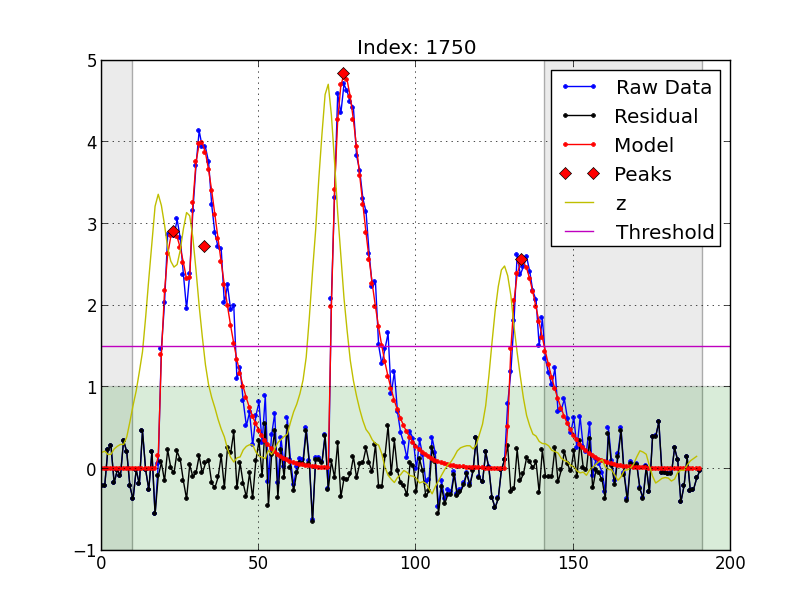
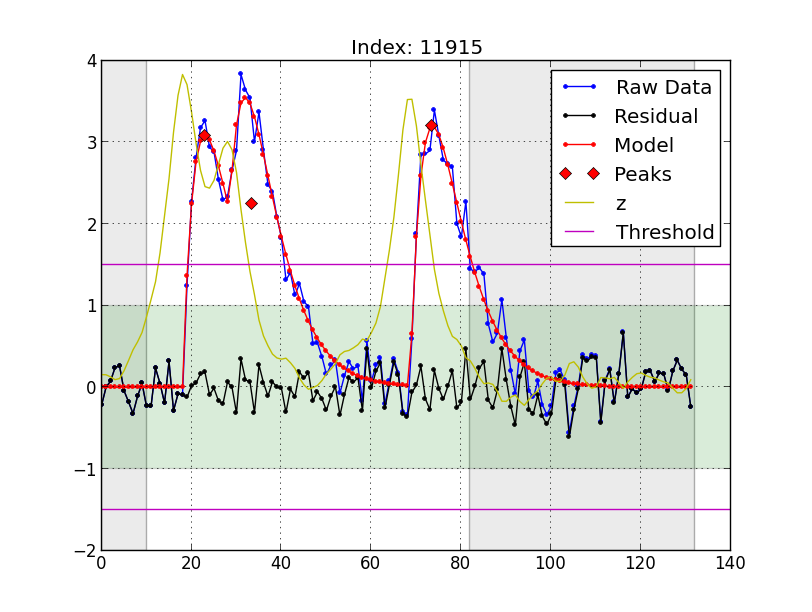
Code clean-up.

diff --git a/scikits/pulsefit/fit_mpocmle.py b/scikits/pulsefit/fit_mpocmle.py
@@ -13,7 +13,7 @@ def fit_mpoc_mle(
         r, p, 
         th, th_min, filt_len, pad_pre, pad_post, max_len, 
         min_denom, exclude_pre, exclude_post, 
-        p_err_len, sigma2, chi2red_max, abs_diff_max,
+        p_err_len, sigma2, chi2red_max, 
         correct=True, pulse_add_len=None, pulse_min_dist=0,
         return_blocks=False, debug=False, cb=None):
     """fit_mpoc_mle
@@ -75,14 +75,12 @@ def fit_mpoc_mle(
     
     p_err_len : int
         The number of samples to check for each pulse to determine
-        the reduced chi^2 and abs_diff values. 
+        the reduced chi^2.
     sigma2 : float 
         The variance in the noise. This is used to compute the 
         reduced chi^2. 
     chi2red_max : float
         The maximum acceptable reduced chi^2 value for a pulse fit. 
-    abs_diff_max : float
-        The maximum acceptable absolute difference for a pulse fit.
     
     correct : bool
         If True, attempt to correct errors. 
@@ -105,12 +103,11 @@ def fit_mpoc_mle(
     Returns
     -------
     If return_blocks is False (default), return 
-        (inds, amps, flags, chi2red, res_max) 
+        (inds, amps, flags, chi2red) 
         inds    : Indices of located pulses. 
         amps    : Amplitudes of located pulses. 
         flags   : A flag for each pulse. 0 means successfully fit. 
         chi2red : The reduced chi^2 value for each pulse. 
-        res_max : The maximum absolute residual value for each pulse. 
 
     If return_blocks is True, return a list of fit blocks.
 
@@ -133,8 +130,7 @@ def fit_mpoc_mle(
     opt_fit = OptFitLeastSq(amp_fit, debug=debug)
         
     # The flagger. 
-    flagger = Flagger(
-        p_err_len, sigma2, chi2red_max, abs_diff_max, debug=debug)
+    flagger = Flagger(p_err_len, sigma2, chi2red_max, debug=debug)
         
     # The error-correction routine. 
     corrector = None
@@ -194,8 +190,7 @@ def fit_mpoc_mle(
     amps = np.concatenate([b.amps for b in blocks])
     flags = np.concatenate([b.flags for b in blocks])
     chi2red = np.concatenate([b.chi2red for b in blocks])
-    res_max = np.concatenate([b.res_max for b in blocks])
 
     mask = inds.argsort()
     
-    return inds[mask], amps[mask], flags[mask], chi2red[mask], res_max[mask]
+    return inds[mask], amps[mask], flags[mask], chi2red[mask]

diff --git a/scikits/pulsefit/flagger.py b/scikits/pulsefit/flagger.py
@@ -8,20 +8,16 @@ class Flagger(object):
     1) The maximum absolute value of the residual.
     2) The value of reduced chi^2.
     """
-    def __init__(self, p_err_len, sigma2, chi2red_max, abs_diff_max,
-                 debug=False):
+    def __init__(self, p_err_len, sigma2, chi2red_max, debug=False):
         """Arguments:
         p_err_len    -- The length along each pulse used to compute the
                         reduced chi^2 and residual.
         sigma2       -- The variance in the data.
         chi2red_max  -- Maximum acceptable reduced chi^2.
-        abs_diff_max -- The maximum acceptable absolute difference
-                        in the residual over the pulse.
         """
         self.p_err_len = p_err_len
         self.sigma2 = sigma2
         self.chi2red_max = chi2red_max
-        self.abs_diff_max = abs_diff_max
         self.debug = debug
 
     
@@ -37,16 +33,12 @@ class Flagger(object):
         
         block.flags = np.empty(block.inds.size, dtype=np.uint8)
         block.chi2red = np.empty_like(block.amps)
-        block.res_max = np.empty_like(block.amps)
         
         for i, idx1 in enumerate(block.inds):
             res = block.res[idx1:idx1 + self.p_err_len]
             block.chi2red[i] = np.sum(res**2) / (nu * self.sigma2)
-            block.res_max[i] = max(res.max(), -res.min())
-            if block.res_max[i] > self.abs_diff_max:
+            if block.chi2red[i] > self.chi2red_max:
                 block.flags[i] = 1
-            elif block.chi2red[i] > self.chi2red_max:
-                block.flags[i] = 2
             else:
                 block.flags[i] = 0
         
@@ -55,8 +47,6 @@ class Flagger(object):
                 if flag == 0:
                     print("    OK")
                 elif flag == 1:
-                    print("    Max residual too large.")
-                elif flag == 2:
                     print("    Reduced chi^2 too large.")
                 else:
                     print("    Unknown error.")

diff --git a/scikits/pulsefit/fit_viewer.py b/scikits/pulsefit/fit_viewer.py
@@ -8,7 +8,7 @@ def view(
         r, p, 
         th, th_min, filt_len, pad_pre, pad_post, max_len, 
         min_denom, exclude_pre, exclude_post, 
-        p_err_len, sigma2, chi2red_max, abs_diff_max,
+        p_err_len, sigma2, chi2red_max, 
         correct=True, pulse_add_len=None, pulse_min_dist=0,
         return_blocks=False, cb=None):
 
@@ -25,6 +25,7 @@ def view(
         ax.plot(b.inds + p.argmax(), b.amps, 'rD', label="Peaks")
         ax.plot(b.kwinfo['z'], 'y-', label='z')
         ax.axhline(th, color='m', label='Threshold')
+        ax.axhline(-th, color='m')
         
         kwargs = { 'facecolor': '0.75', 'alpha':0.30 }
         ax.axvspan(0, exclude_pre, **kwargs)
@@ -46,7 +47,6 @@ def view(
         print("    Amps          :", b.amps)
         print("    Flags         :", b.flags)
         print("    Reduced chi^2 :", b.chi2red)
-        print("    Max |residual|:", b.res_max)
         
         print("\nPress enter to continue...")
         raw_input()
@@ -56,7 +56,7 @@ def view(
         r, p, 
         th, th_min, filt_len, pad_pre, pad_post, max_len, 
         min_denom, exclude_pre, exclude_post, 
-        p_err_len, sigma2, chi2red_max, abs_diff_max,
+        p_err_len, sigma2, chi2red_max, 
         correct, pulse_add_len, pulse_min_dist,
         return_blocks=return_blocks, debug=True, cb=_view_block)
 

diff --git a/scikits/pulsefit/block.py b/scikits/pulsefit/block.py
@@ -22,7 +22,6 @@ class Block(object):
     flags   - Numeric flags set by the fitting algorithm, per pulse.
               0 means no error.
     chi2red - The reduced chi^2 statistic for the fit.
-    res_max - The maximum absolute value in the residual.
 
     model   - An array containing the model data. 
     res     - An array containing the residual data. 
@@ -43,7 +42,6 @@ class Block(object):
         self.amps    = None
         self.flags   = None
         self.chi2red = None
-        self.res_max = None
 
         self.model   = np.empty(i1 - i0, dtype=np.float64)
         self.res     = np.empty(i1 - i0, dtype=np.float64)

diff --git a/scikits/pulsefit/util.py b/scikits/pulsefit/util.py
@@ -27,7 +27,6 @@ def remove_bad_pulses(block):
     block.amps = block.amps[mask]
     block.flags = block.flags[mask]
     block.chi2red = block.chi2red[mask]
-    block.res_max = block.res_max[mask]
     
     # Recompute the model and residual. 
     model(block.b, block.inds, block.amps, block.p, block.model)

diff --git a/src/blockident_median.c b/src/blockident_median.c
@@ -75,7 +75,7 @@ static PyObject *next_block(PyObject *self, PyObject *args) {
   for(i1 = i0 + 1;
       (i1 < r_len) &&  ((i1 - i0) < di_max) && (n_below < pad_post);
       ++i1) {
-    if(r[i1] - b > th) {
+    if(r[i1] - b > th || -r[i1] + b > th) {
       n_below = 0;
     } else {
       ++n_below;

diff --git a/example/example.py b/example/example.py
@@ -45,7 +45,6 @@ fit_viewer.view(
     p_err_len=40, 
     sigma2=sigma*sigma, 
     chi2red_max=2.0, 
-    abs_diff_max=1.25,
     correct=True, 
     pulse_add_len=70, 
     pulse_min_dist=2)

diff --git a/README.md b/README.md
@@ -14,7 +14,6 @@ shapes to test with.
 
 ### To-do List
 
-* Make the threshold `th` work properly for bi-polar pulses.
 * Automatic noise estimation for reduced chi^2 computation? 
 
 ## Overview
@@ -111,8 +110,8 @@ Each plot shows a single block. The following information is plotted:
   algorithm used to initially identify the pulse positions. The
   `min_denom` parameter acts as a low-pass filter on `z`.
 * `Threshold` is the `th` parameter. 
-* The green shaded region indicates the acceptable residual boundary
-  given by the parameter `th_min`.
+* The green shaded region indicates the lowest amplitude pulse that
+  will be fit, given by the parameter `th_min`.
 * The grey shaded regions are the excluded regions. These are
   controled by `exclude_pre` and `exclude_post`.
 
